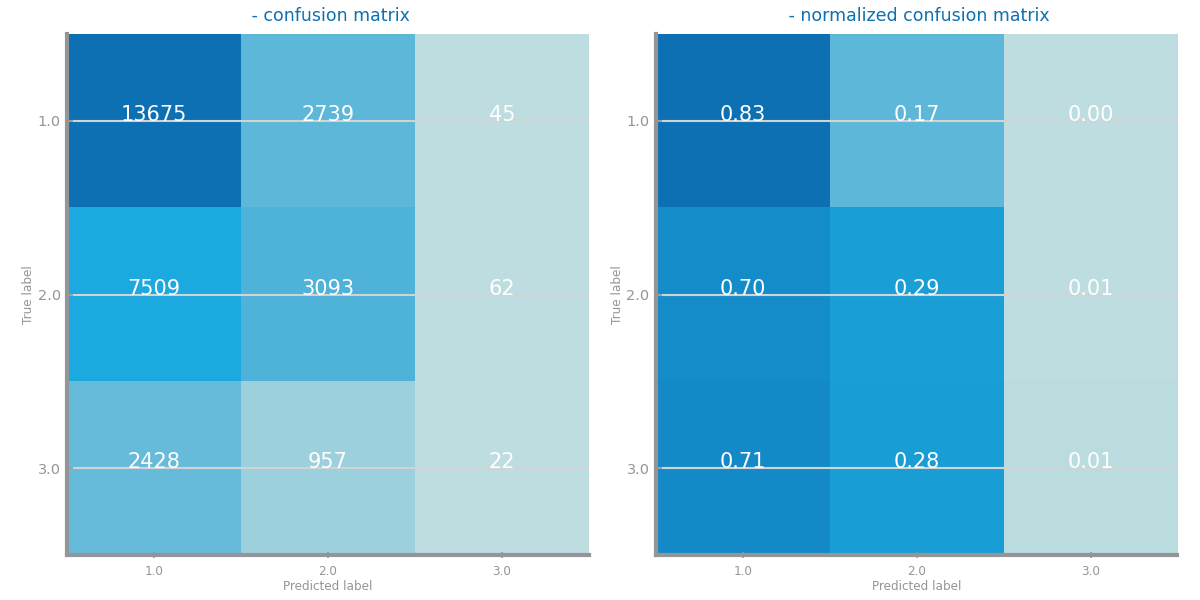
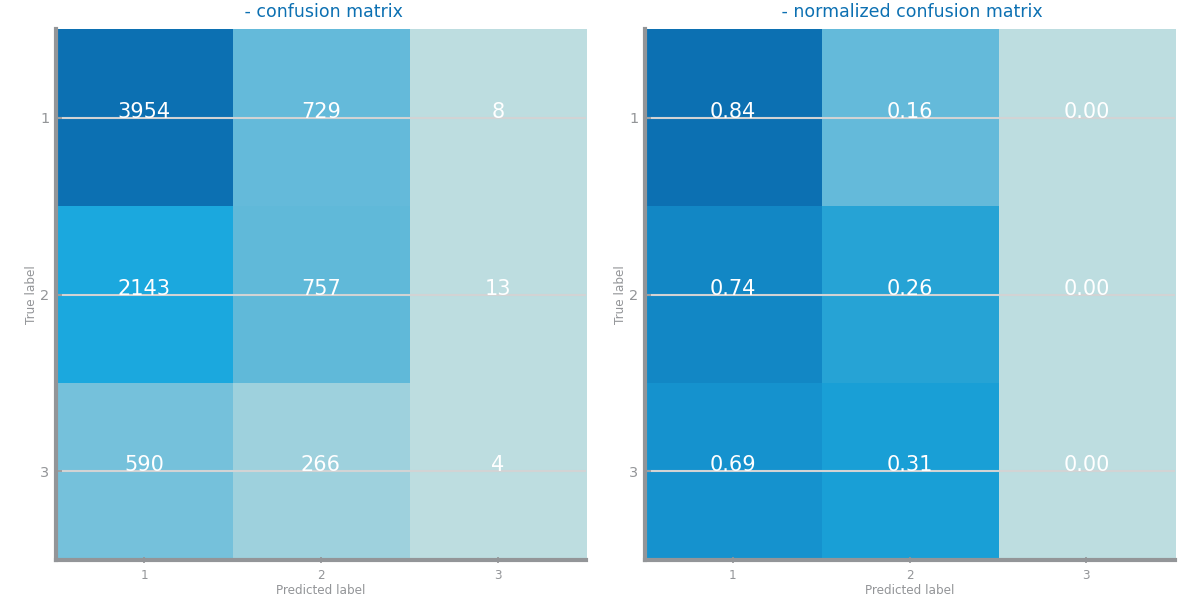
feat: prepared data for set 1

diff --git a/health/src/main.py b/health/src/main.py
@@ -21,12 +21,12 @@ INPUTATION_PATH = RECORDS_PATH + '/inputation'
 
 INPUT_FILE_PATH = 'health/resources/data/diabetic_data.csv'
 PREPARATION_OUT_FILE_PATH = 'health/resources/data/data_prepared.csv'
+MVI_OUT_FILE_PATH = 'health/resources/data/data_mvi_approach1.csv'
 INPUTATION_OUT_FILE_PATH = 'health/resources/data'
 MISSING_VALUES_REPR = '?'
 
 
 if __name__ == "__main__":
-  data = read_csv(INPUT_FILE_PATH, na_values='na')
 
   # ----------------------------- 1º Phase -> Data profiling ----------------------------- #
   
@@ -55,13 +55,10 @@ if __name__ == "__main__":
 
   # ----------------------------- 2º Phase -> Data preparation -------  ---------------------- #
 
-  # parser = Parser(data, MISSING_VALUES_REPR)
-  # data = parser.parse_dataset(PREPARATION_OUT_FILE_PATH)
+  data = read_csv(INPUT_FILE_PATH, na_values='na')
 
-  data = read_csv(PREPARATION_OUT_FILE_PATH, na_values='na')
-
-  profiler0 = Profiler(data)
-  profiler0.explore_count_data_types()
+  parser = Parser(data, MISSING_VALUES_REPR)
+  data = parser.parse_dataset(PREPARATION_OUT_FILE_PATH)
 
   mvi = MVImputation(data, MISSING_VALUES_REPR)
   data = mvi.compute_mv_imputation()
@@ -69,19 +66,21 @@ if __name__ == "__main__":
   outliers = OutliersImputation(data)
   data = outliers.compute_outliers()
 
-  profiler0 = Profiler(data)
-  profiler0.explore_count_data_types()
+  scaling = Scaling(data)
+  data = scaling.compute_scale()
 
-  # scaling = Scaling(data)
-  # data = scaling.compute_scale()
-  # 
-  # profiler1 = Profiler(data)
-  # profiler1.explore_count_data_types()
+  # Removes single value columns
+  ms = [
+    'repaglinide', 'max_glu_serum', 'nateglinide', 'chlorpropamide', 'acetohexamide', 'acarbose', 'miglitol', 
+    'tolazamide', 'citoglipton', 'examide', 'glyburide-metformin', 'metformin-rosiglitazone', 'metformin-pioglitazone'
+  ]
+  data = data.drop(columns=ms)
 
-  # balancing = Balancing(data)
-  # data = balancing.compute_balancing()
-  # 
-  # profiler2 = Profiler(data)
-  # profiler2.explore_count_data_types()
-  # 
-  # data.to_csv(PREPARATION_OUT_FILE_PATH)
+  balancing = Balancing(data)
+  data = balancing.compute_balancing()
+  
+  data.to_csv(PREPARATION_OUT_FILE_PATH)
+
+  # ----------------------------- 3º Phase -> Evaluation -------  ---------------------- #
+
+  # data = read_csv(PREPARATION_OUT_FILE_PATH, na_values='na')

diff --git a/health/src/preparation/mvi_inputation.py b/health/src/preparation/mvi_inputation.py
@@ -33,27 +33,8 @@ class MVImputation:
 	def compute_mv_imputation(self) -> pd.DataFrame:
 		self.drop_column('weight')
 		self.drop_column('payer_code')
-		self.drop_column('medical_specialty')
-		
-		tmp_nr, tmp_sb, tmp_bool = None, None, None
-		## FIXME: since we enconde the data first, there is no way that this can know what variables are symbolic if they are also int
-		numeric_vars = ['time_in_hospital', 'num_lab_procedures', 'num_procedures', 'num_medications', 'number_outpatient', 'number_emergency', 'number_diagnoses', 'number_inpatient']
-		symbolic_vars = ['race', 'gender', 'age', 'admission_type_id', 'discharge_disposition_id', 'admission_source_id', 'diag_1', 'diag_2', 'diag_3', 'max_glu_serum', 'A1Cresult', 'metformin', 'repaglinide', 'nateglinide', 'chlorpropamide', 'glimepiride', 'glipizide', 'glyburide', 'pioglitazone', 'rosiglitazone', 'acarbose', 'miglitol', 'tolazamide', 'examide', 'citoglipton', 'insulin', 'glyburide-metformin', 'readmitted', 'glipizide-metformin', 'glimepiride-pioglitazone', 'metformin-rosiglitazone', 'metformin-pioglitazone', 'acetohexamide', 'troglitazone', 'tolbutamide']
-		binary_vars = ['diabetesMed', 'change']
-
-		tmp_nr, tmp_sb, tmp_bool = None, None, None
-		if len(numeric_vars) > 0:
-			imp = SimpleImputer(strategy='mean', missing_values=nan, copy=True)
-			tmp_nr = pd.DataFrame(imp.fit_transform(self.data[numeric_vars]), columns=numeric_vars)
-		if len(symbolic_vars) > 0:
-			imp = SimpleImputer(strategy='most_frequent', missing_values=nan, copy=True)
-			tmp_sb = pd.DataFrame(imp.fit_transform(self.data[symbolic_vars]), columns=symbolic_vars)
-		if len(binary_vars) > 0:
-			imp = SimpleImputer(strategy='most_frequent', missing_values=nan, copy=True)
-			tmp_bool = pd.DataFrame(imp.fit_transform(self.data[binary_vars]), columns=binary_vars)
-
-		self.data = pd.concat([tmp_nr, tmp_sb, tmp_bool], axis=1)
-		self.data.index = self.data.index
+		self.fill_missing_values('medical_specialty', 'most_frequent')
+		self.drop_records()
 		return self.data
 
 	def approach_1(self, img_out_path: str, file_out_path: str):

diff --git a/health/src/preparation/balancing.py b/health/src/preparation/balancing.py
@@ -15,10 +15,10 @@ class Balancing:
     return self.data
 
   def get_symbolic_index_array(self) -> list[int]:
-    headers = ['diabetesMed', 'change', 'race', 'gender', 'age', 'admission_type_id', 'discharge_disposition_id', 'admission_source_id', 'diag_1', 'diag_2', 'diag_3', 'max_glu_serum', 'A1Cresult', 'metformin', 'repaglinide', 'nateglinide', 'chlorpropamide', 'glimepiride', 'glipizide', 'glyburide', 'pioglitazone', 'rosiglitazone', 'acarbose', 'miglitol', 'tolazamide', 'examide', 'citoglipton', 'insulin', 'glyburide-metformin', 'readmitted', 'glipizide-metformin', 'glimepiride-pioglitazone', 'metformin-rosiglitazone', 'metformin-pioglitazone', 'acetohexamide', 'troglitazone', 'tolbutamide']
+    headers = ['diabetesMed', 'change', 'race', 'gender', 'age', 'admission_type_id', 'discharge_disposition_id', 'admission_source_id', 'diag_1', 'diag_2', 'diag_3', 'A1Cresult', 'metformin', 'glimepiride', 'glipizide', 'glyburide', 'pioglitazone', 'rosiglitazone', 'insulin', 'glipizide-metformin', 'glimepiride-pioglitazone', 'troglitazone', 'tolbutamide']
     result = []
     for h in headers:
-      result.append(self.data.columns.get_loc(h) - 1)
+      result.append(self.data.columns.get_loc(h))
     return result
 
   def explore_balancing(self, data: pd.DataFrame) -> pd.DataFrame:

diff --git a/health/src/preparation/parsing.py b/health/src/preparation/parsing.py
@@ -66,7 +66,6 @@ class Parser:
     Arguments:
       * output_path(str): output dataset path to be stored in
     """
-    self.data = self.drop_unnecessary_columns()
     for column, parse_func in self.func_map.items():
       print(f"Parsing column: [{column}]...")
       self.data[column] = self.data[column].apply(lambda x: self.missing_parsed if x == self.missing else parse_func(x))
@@ -74,11 +73,6 @@ class Parser:
     print("DONE :)")
     self.data.to_csv(output_path)
     return self.data
-
-  def drop_unnecessary_columns(self) -> pd.DataFrame:
-    data: pd.DataFrame = self.data
-    data = data.drop(columns=['encounter_id', 'patient_nbr'])
-    return data
 
   def _map_race(self, ele: str) -> int:
     """

diff --git a/health/src/preparation/scaling.py b/health/src/preparation/scaling.py
@@ -38,9 +38,9 @@ class Scaling:
 
     # Applies NB and KNN to check which one is better
     print("COMPUTING Z-SCORE...")
-    zscore_nb_acc, zscore_knn_acc = self.evaluate_nb(zscore, 'zscore'), self.evaluate_knn(zscore, 'zscore')
+    zscore_nb_acc, zscore_knn_acc = self.compute_naive_bayes_result(zscore), self.compute_knn_result(zscore)
     print("COMPUTING MIN-MAX...")
-    min_max_nb_acc, min_max_knn_acc = self.evaluate_nb(min_max, 'minmax'), self.evaluate_knn(min_max, 'minmax')
+    min_max_nb_acc, min_max_knn_acc = self.compute_naive_bayes_result(min_max), self.compute_knn_result(min_max)
 
     print("############ Result #############")
     print(f"ZSCORE -> NB: {zscore_nb_acc} | KNN: {zscore_knn_acc}")

diff --git a/health/src/preparation/outliers_imputation.py b/health/src/preparation/outliers_imputation.py
@@ -27,7 +27,7 @@ class OutliersImputation:
     return top_threshold, bottom_threshold
 
   def compute_outliers(self) -> pd.DataFrame:
-    return self.compute_median_outliers()  # This is the best one
+    return self.compute_drop_outliers()  # This is the best one
 
   def explore_outliers(self) -> pd.DataFrame:
     data_drop = self.compute_drop_outliers()
